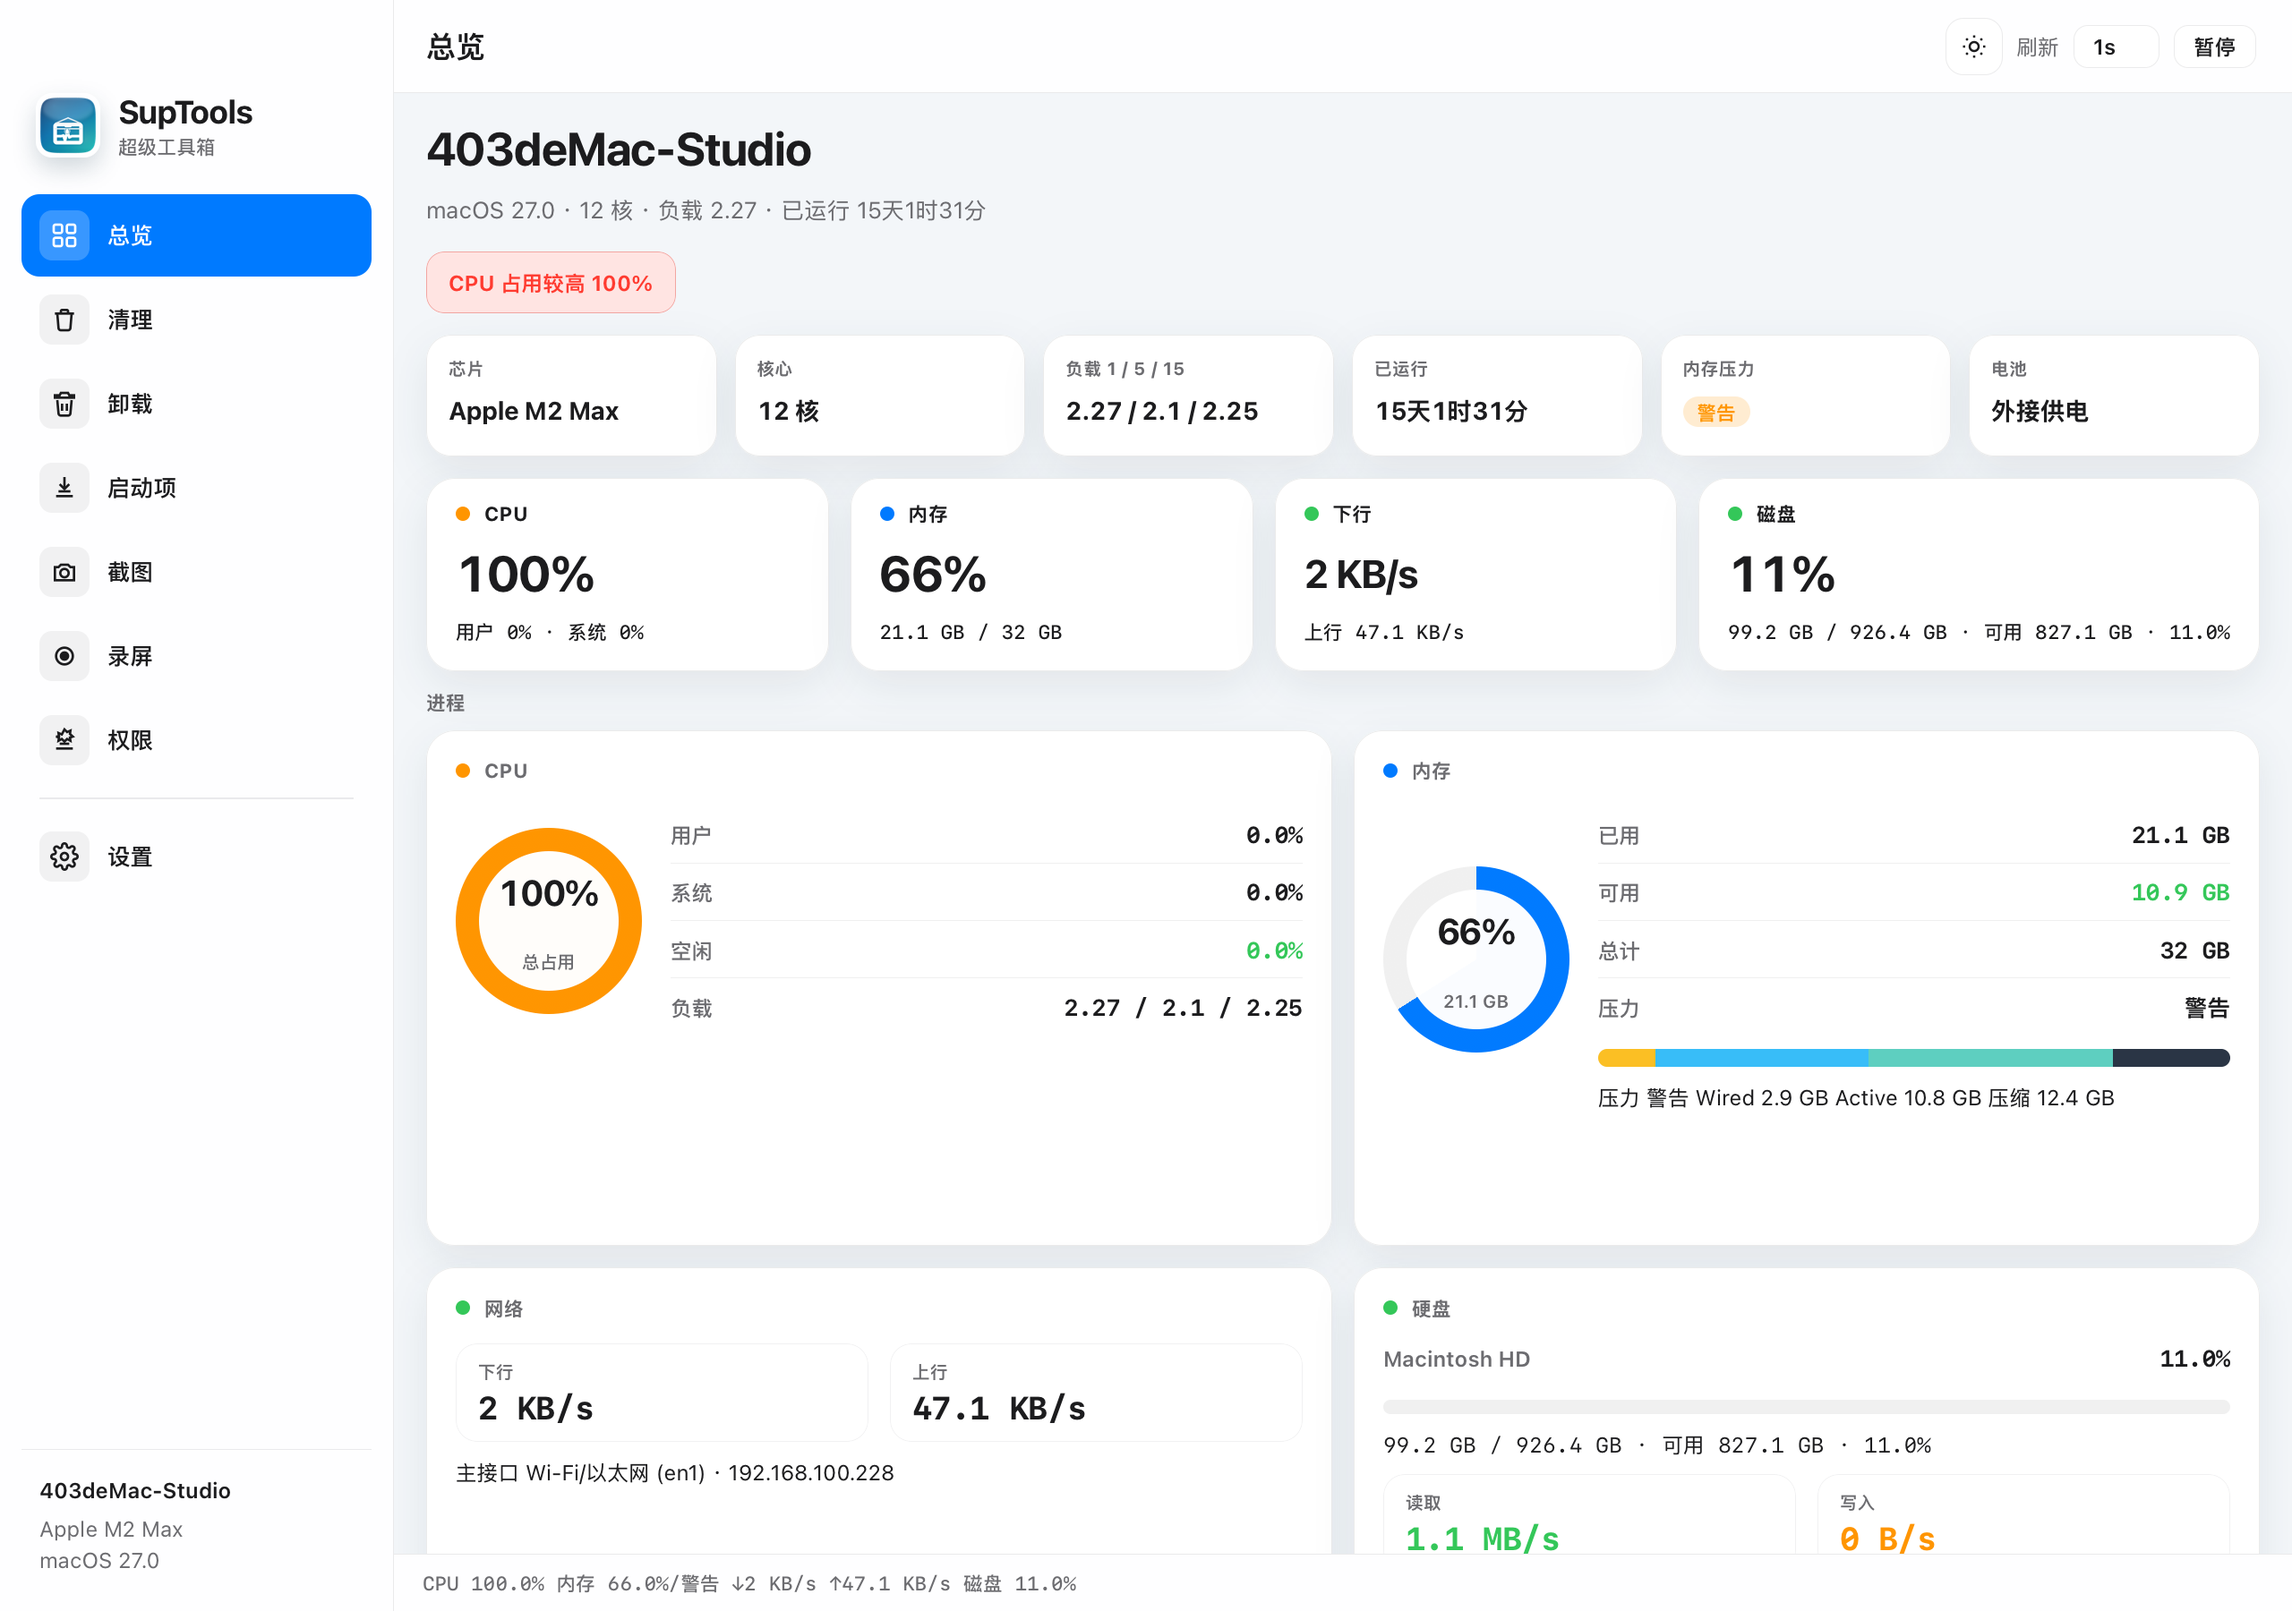
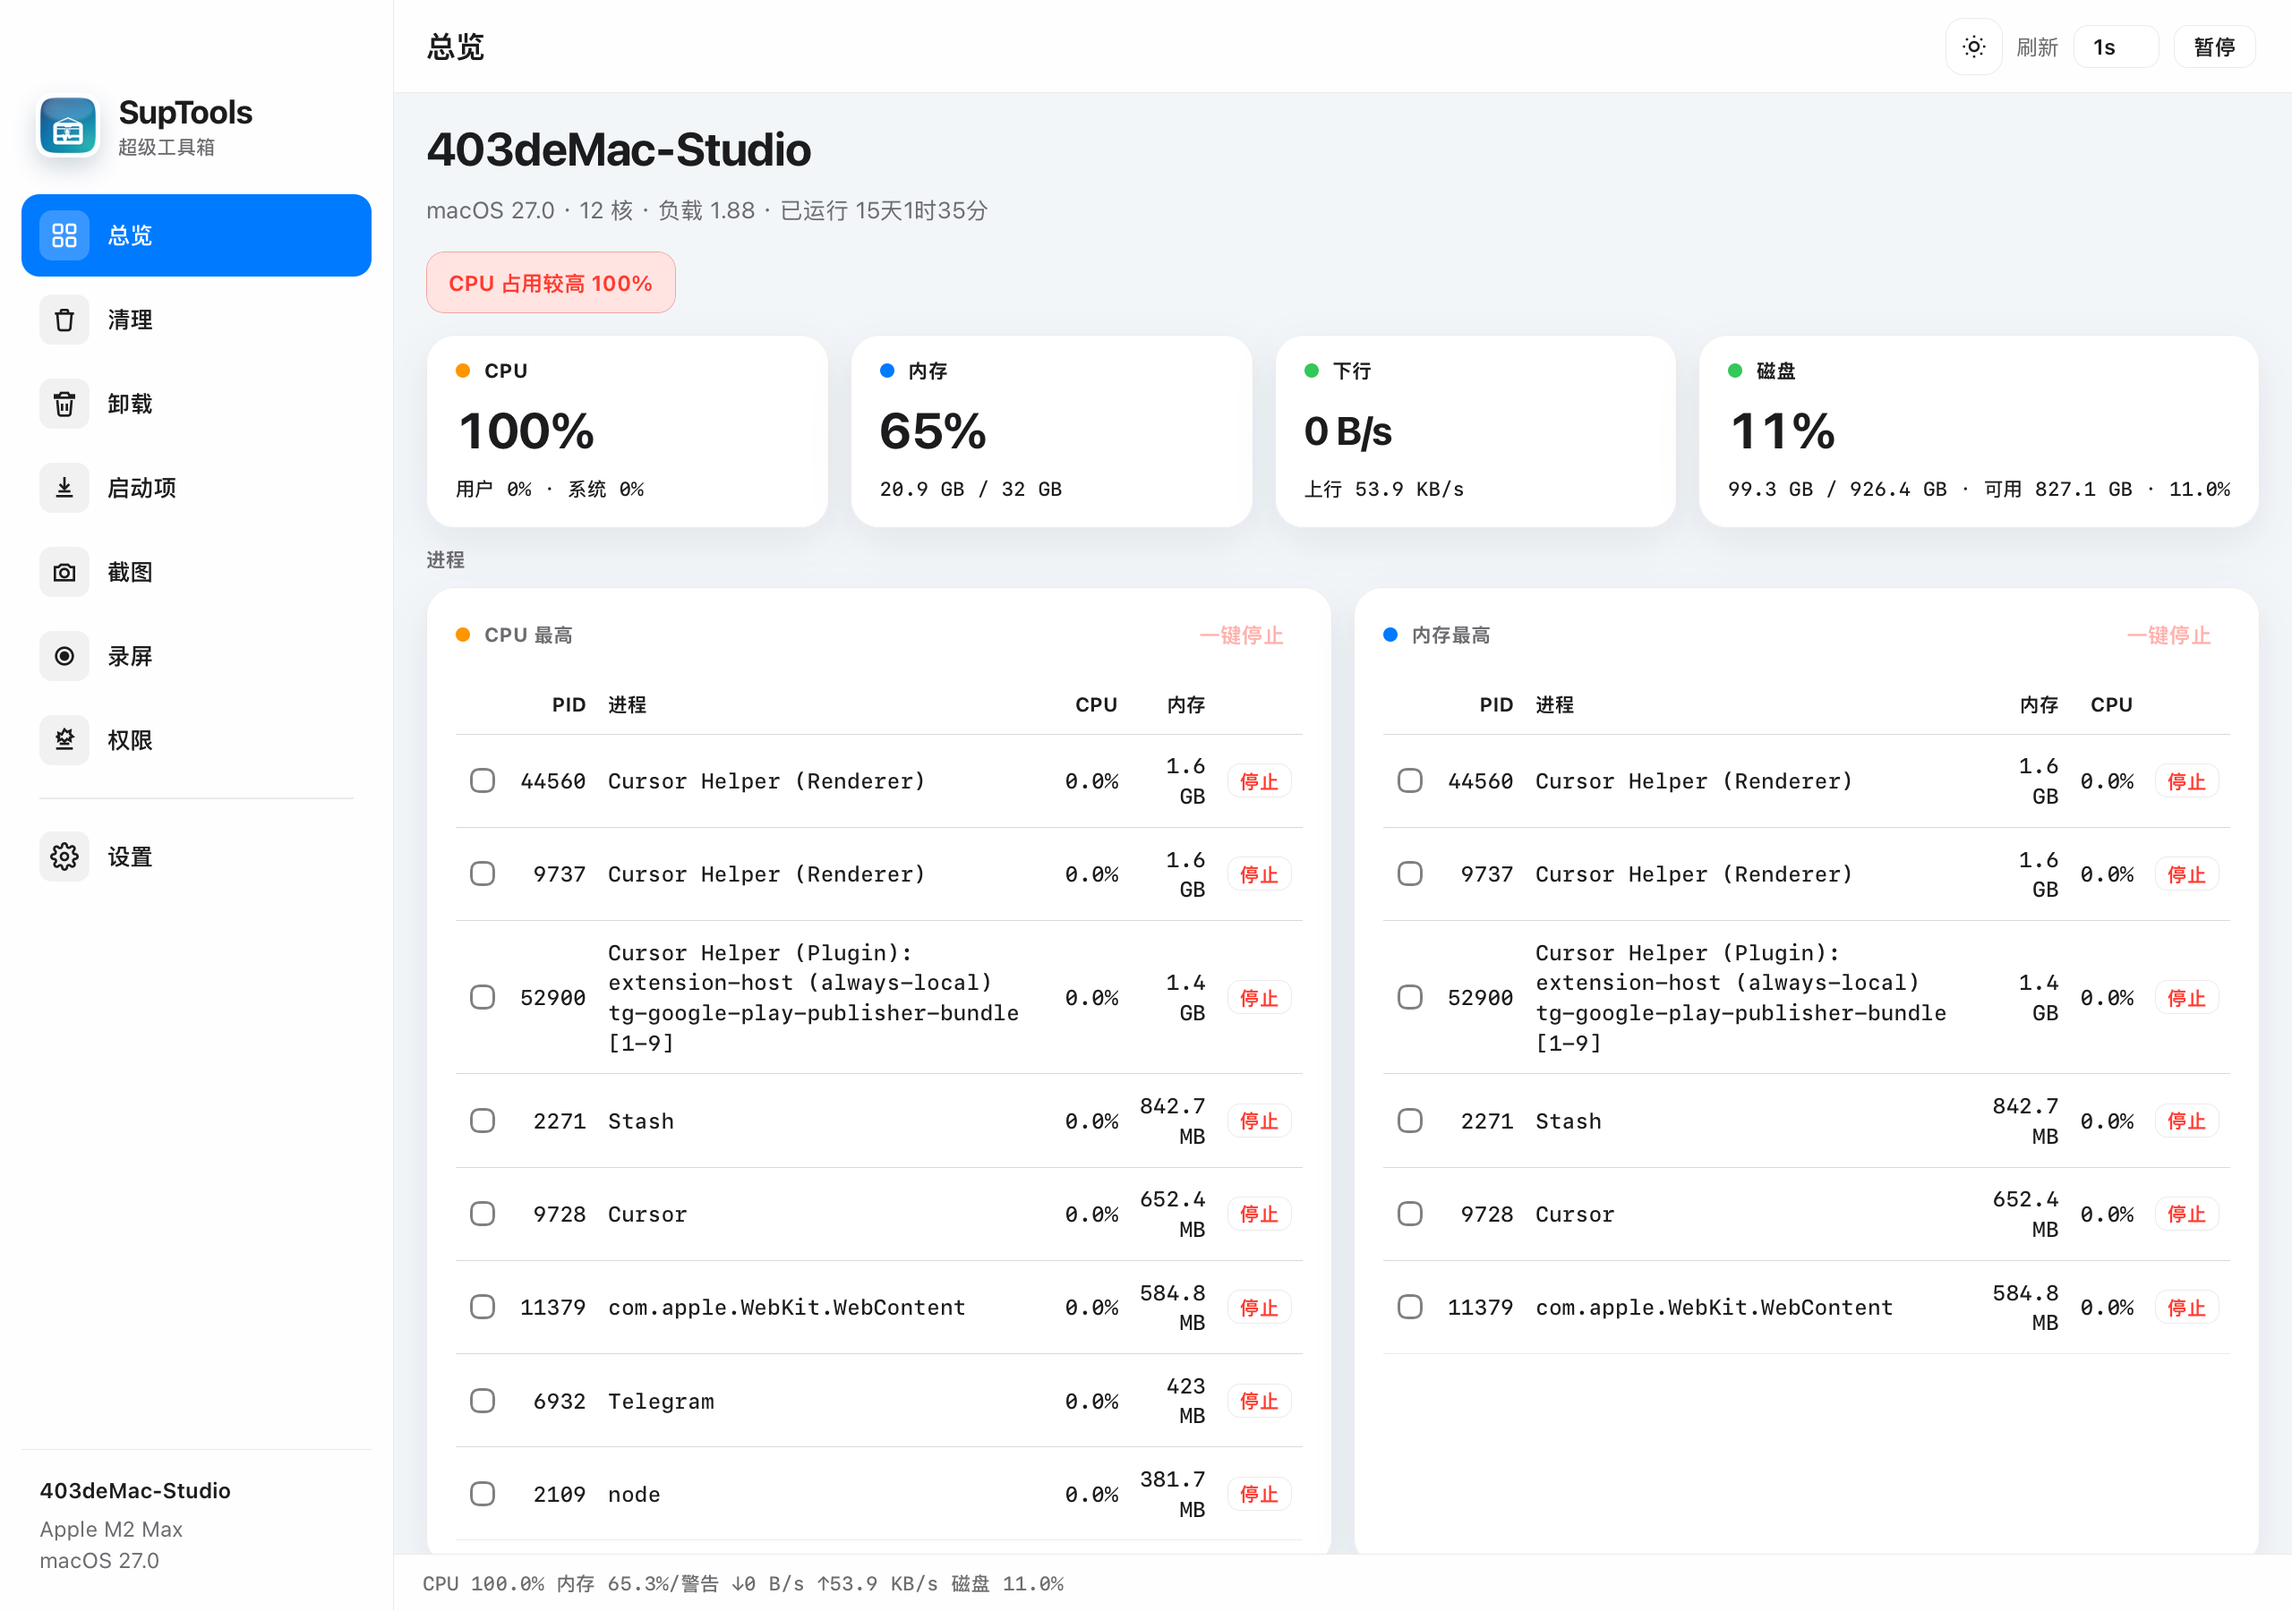
Finish overview declutter and refresh screenshots.
Remove redundant host pills and detail charts from the overview so the page is just KPIs plus top processes.

diff --git a/systemmonit/dashboard_html.py b/systemmonit/dashboard_html.py
@@ -203,6 +203,7 @@ DASHBOARD_HTML = r"""<!DOCTYPE html>
     --ring-a: 0.50;
   }
   * { box-sizing: border-box; }
+  [hidden] { display: none !important; }
   html, body {
     margin: 0; height: 100%;
     background: transparent;
@@ -1845,13 +1846,15 @@ DASHBOARD_HTML = r"""<!DOCTYPE html>
       <section class="page active" id="page-overview">
         <div class="head"><h2 id="ov-header">加载中…</h2><p id="ov-sub">正在连接本机采集器…</p></div>
         <div class="alerts" id="ov-alerts"></div>
-        <div class="info-grid" hidden aria-hidden="true">
-          <div class="info-pill"><div class="k">芯片</div><div class="v" id="ov-chip">—</div></div>
-          <div class="info-pill"><div class="k">核心</div><div class="v" id="ov-cores">—</div></div>
-          <div class="info-pill"><div class="k">负载 1 / 5 / 15</div><div class="v" id="ov-load">—</div></div>
-          <div class="info-pill"><div class="k">已运行</div><div class="v" id="ov-uptime">—</div></div>
-          <div class="info-pill"><div class="k">内存压力</div><div class="v"><span class="pressure-pill" id="ov-pressure">—</span></div></div>
-          <div class="info-pill" id="ov-batt-pill"><div class="k">电池</div><div class="v" id="ov-battery">—</div></div>
+        <div id="ov-stubs" style="position:absolute;width:0;height:0;overflow:hidden;opacity:0;pointer-events:none" aria-hidden="true">
+          <span id="ov-chip"></span><span id="ov-cores"></span><span id="ov-load"></span><span id="ov-uptime"></span>
+          <span class="pressure-pill" id="ov-pressure"></span><span id="ov-battery"></span><span id="ov-batt-pill"></span>
+          <span id="ov-cpu-pct"></span><div id="ov-cpu-ring"></div><div id="ov-cpu-kv"></div><canvas id="ov-cpu-spark"></canvas>
+          <span id="ov-mem-pct"></span><span id="ov-mem-used"></span><div id="ov-mem-ring"></div><div id="ov-mem-kv"></div>
+          <div id="ov-mem-stack"></div><div id="ov-mem-legend"></div><canvas id="ov-mem-spark"></canvas>
+          <span id="ov-net-down"></span><span id="ov-net-up"></span><span id="ov-net-iface"></span><canvas id="ov-net-spark"></canvas>
+          <span id="ov-disk-name"></span><span id="ov-disk-pct-label"></span><span id="ov-disk-bar"></span>
+          <span id="ov-disk-text"></span><span id="ov-disk-read"></span><span id="ov-disk-write"></span>
         </div>
         <div class="kpi-grid" id="ov-quick">
           <div class="kpi" style="--c:var(--cpu)"><div class="label"><i></i>CPU</div><div class="value" id="q-cpu">—</div><div class="sub" id="q-cpu-s"></div></div>
@@ -1861,53 +1864,6 @@ DASHBOARD_HTML = r"""<!DOCTYPE html>
         </div>
         <div class="section-gap">进程</div>
         <div class="grid">
-          <div class="card h-metric" hidden aria-hidden="true" style="--c:var(--cpu)">
-            <h3><i></i>CPU</h3>
-            <div class="card-body">
-              <div class="metric-row">
-                <div class="ring" id="ov-cpu-ring" style="--c:var(--cpu)"><div><b id="ov-cpu-pct">—</b><small>总占用</small></div></div>
-                <div class="grow kv-list" id="ov-cpu-kv"></div>
-              </div>
-              <canvas class="spark" id="ov-cpu-spark"></canvas>
-            </div>
-          </div>
-          <div class="card h-metric" hidden aria-hidden="true" style="--c:var(--mem)">
-            <h3><i></i>内存</h3>
-            <div class="card-body">
-              <div class="metric-row">
-                <div class="ring" id="ov-mem-ring" style="--c:var(--mem)"><div><b id="ov-mem-pct">—</b><small id="ov-mem-used">—</small></div></div>
-                <div class="grow">
-                  <div class="kv-list" id="ov-mem-kv"></div>
-                  <div class="stack" id="ov-mem-stack"></div>
-                  <div class="muted" id="ov-mem-legend"></div>
-                </div>
-              </div>
-              <canvas class="spark" id="ov-mem-spark"></canvas>
-            </div>
-          </div>
-          <div class="card h-metric" hidden aria-hidden="true" style="--c:var(--down)">
-            <h3><i></i>网络</h3>
-            <div class="card-body">
-              <div class="rate-row">
-                <div class="rate-box"><div class="rk">下行</div><div class="rv down" id="ov-net-down">—</div></div>
-                <div class="rate-box"><div class="rk">上行</div><div class="rv up" id="ov-net-up">—</div></div>
-              </div>
-              <div class="muted" id="ov-net-iface" style="margin-bottom:6px"></div>
-              <canvas class="spark" id="ov-net-spark"></canvas>
-            </div>
-          </div>
-          <div class="card h-metric" hidden aria-hidden="true" style="--c:var(--disk)">
-            <h3><i></i>硬盘</h3>
-            <div class="card-body">
-              <div class="kv-row" style="border:0;padding-top:0"><span class="k" id="ov-disk-name">—</span><span class="v" id="ov-disk-pct-label">—</span></div>
-              <div class="bar" style="--c:var(--disk)"><span id="ov-disk-bar"></span></div>
-              <div class="muted" id="ov-disk-text" style="font-family:ui-monospace,Menlo,monospace;margin-bottom:8px">—</div>
-              <div class="rate-row">
-                <div class="rate-box"><div class="rk">读取</div><div class="rv" id="ov-disk-read" style="color:var(--disk)">—</div></div>
-                <div class="rate-box"><div class="rk">写入</div><div class="rv" id="ov-disk-write" style="color:var(--warn)">—</div></div>
-              </div>
-            </div>
-          </div>
           <div class="card h-table">
             <div class="card-head">
               <h3><i style="background:var(--cpu)"></i>CPU 最高</h3>
